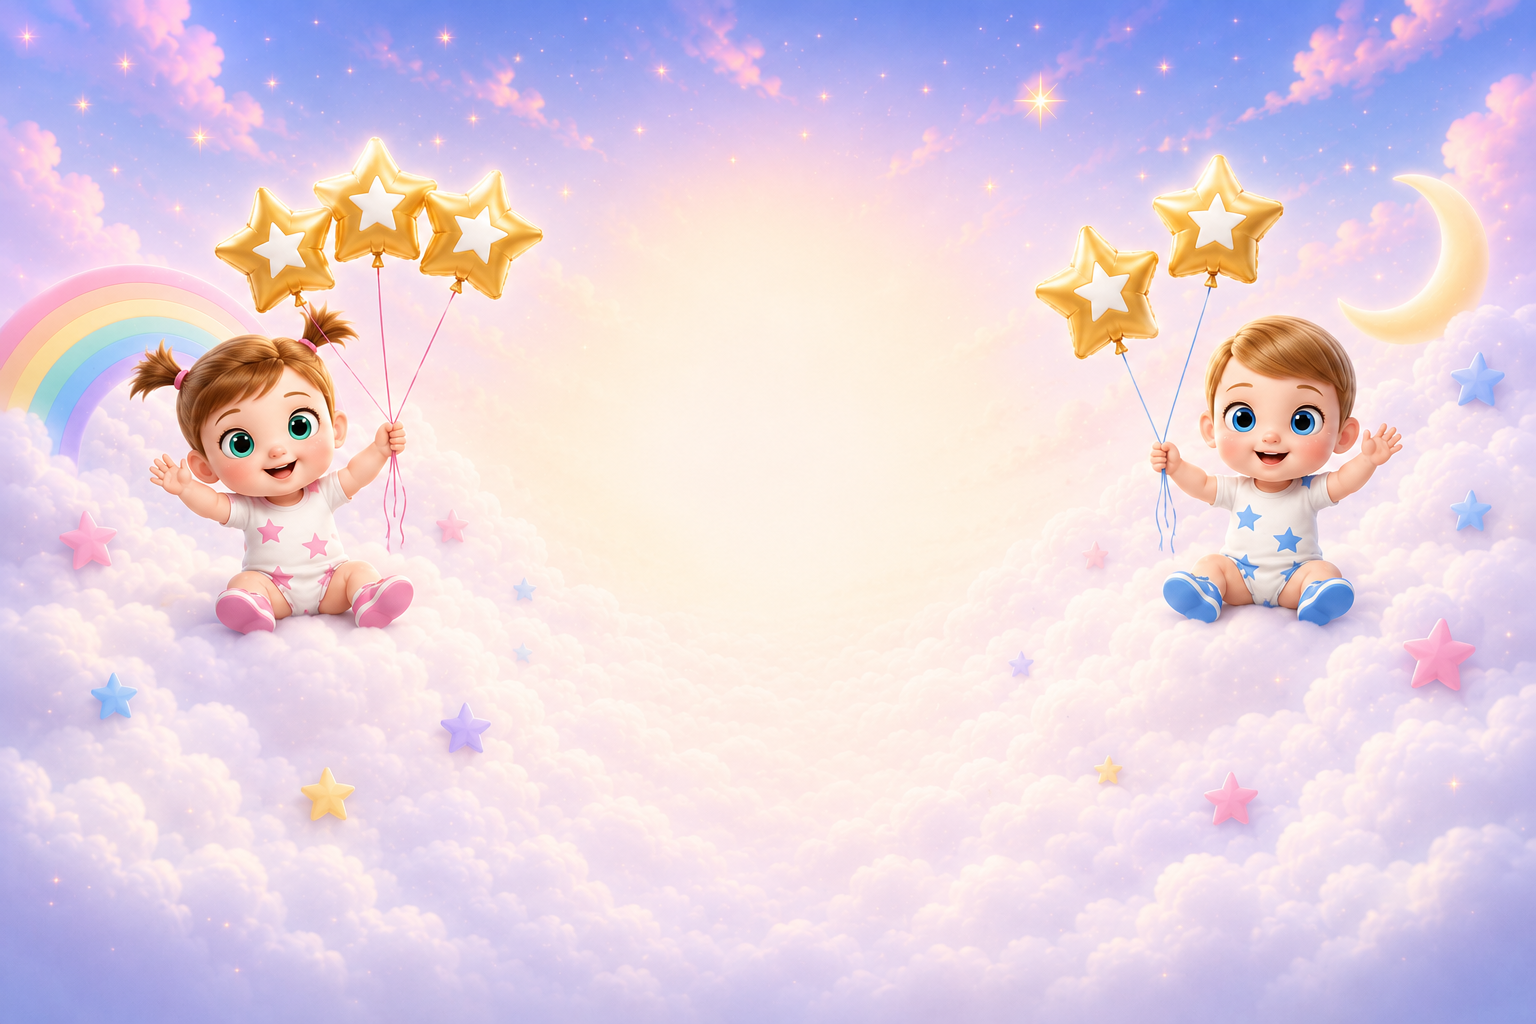
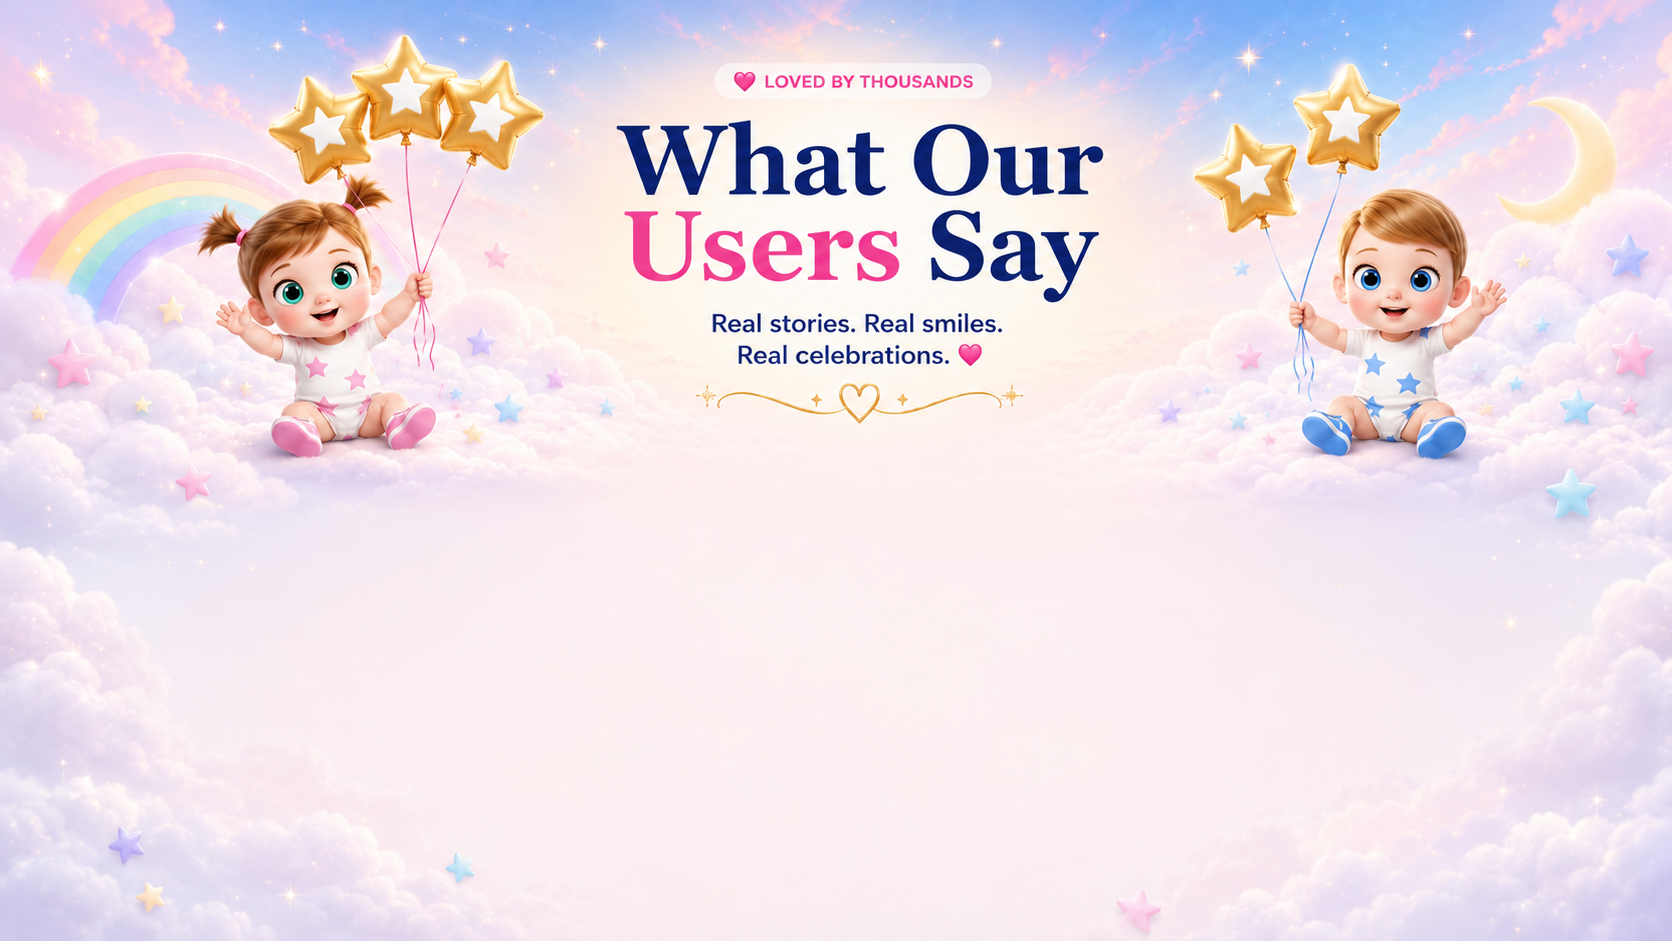
Testimonials: Replace background image with text-rendered image, remove HTML text header container, and restore 33vw top-padding to align cards below text

diff --git a/src/components/cinema/CinematicEntry.tsx b/src/components/cinema/CinematicEntry.tsx
@@ -750,19 +750,6 @@ function LandingPage() {
       </section>
 
       <section className="testi-new-section">
-        <div className="testi-new-header fade-up">
-          <div className="testi-pill-badge">💗 LOVED BY THOUSANDS</div>
-          <h2 className="testi-main-title">What Our <span className="testi-title-pink">Users</span> Say</h2>
-          <p className="testi-new-sub">
-            Real stories. Real smiles.<br />
-            Real celebrations. 💗
-          </p>
-          <svg className="testi-ornament" viewBox="0 0 100 20" fill="none" stroke="#e2b857" strokeWidth="1.5" strokeLinecap="round">
-            <path d="M10 10c15 0 20-5 35-5s5 5 5 5" />
-            <path d="M90 10c-15 0-20-5-35-5s-5 5-5 5" />
-            <path d="M50 7c-2-2-5 0-5 3 0 3 5 5 5 5s5-2 5-5c0-3-3-5-5-3z" />
-          </svg>
-        </div>
         <div className="testi-new-inner">
           <div className="testi-new-grid fade-up">
             {[
@@ -1771,7 +1758,7 @@ nav#main-nav.solid{box-shadow:0 6px 28px rgba(0,0,0,0.14);}
 @media(max-width:768px){.pricing-grid{grid-template-columns:1fr;}.pnew-premium{transform:none;}.pnew-premium:hover{transform:translateY(-6px);}}
 /* ── Testimonials Redesign ── */
 .testi-new-section {
-  padding: 6rem 2rem 5rem 2rem;
+  padding: 33vw 2rem 5rem 2rem;
   background: url('/images/testimonials-bg.png') center top/100% auto no-repeat;
   background-color: #ecdffa;
   position: relative;
@@ -1782,54 +1769,6 @@ nav#main-nav.solid{box-shadow:0 6px 28px rgba(0,0,0,0.14);}
 }
 .testi-heart-left, .testi-heart-right {
   display: none !important;
-}
-.testi-new-header {
-  position: relative;
-  margin-bottom: 0;
-  width: 100%;
-  max-width: 600px;
-  text-align: center;
-  z-index: 4;
-}
-.testi-pill-badge {
-  display: inline-flex;
-  align-items: center;
-  gap: 0.4rem;
-  padding: 0.38rem 1.2rem;
-  border: 1.5px solid #E8449A;
-  border-radius: 50px;
-  font-size: 0.72rem;
-  font-weight: 700;
-  color: #E8449A;
-  letter-spacing: 0.1em;
-  text-transform: uppercase;
-  margin-bottom: 1rem;
-  background: rgba(255, 255, 255, 0.95);
-  box-shadow: 0 2px 8px rgba(232, 68, 154, 0.08);
-}
-.testi-main-title {
-  font-family: 'Nunito', sans-serif;
-  font-size: clamp(2rem, 3.8vw, 2.8rem);
-  font-weight: 900;
-  color: #1b2a4a;
-  line-height: 1.2;
-}
-.testi-title-pink {
-  color: #E8449A;
-}
-.testi-new-sub {
-  font-size: 0.95rem;
-  color: #4b5563;
-  margin-top: 0.6rem;
-  line-height: 1.45;
-  font-weight: 600;
-}
-.testi-ornament {
-  width: 140px;
-  height: 28px;
-  margin: 0.8rem auto 0;
-  display: block;
-  opacity: 0.85;
 }
 .testi-avatar-icon {
   width: 44px;
@@ -1851,7 +1790,6 @@ nav#main-nav.solid{box-shadow:0 6px 28px rgba(0,0,0,0.14);}
   display: grid;
   grid-template-columns: repeat(4, 1fr);
   gap: 1.25rem;
-  margin-top: 14vw;
 }
 @media(max-width:1024px){.testi-new-grid{grid-template-columns:repeat(2, 1fr);}}
 @media(max-width:640px){.testi-new-grid{grid-template-columns:1fr;}}
@@ -2084,20 +2022,9 @@ nav#main-nav.solid{box-shadow:0 6px 28px rgba(0,0,0,0.14);}
     display: none !important;
   }
   .testi-new-section {
-    padding: 4rem 1.2rem 4rem !important;
+    padding: 58vw 1.2rem 4rem !important;
     background: url('/images/testimonials-bg.png') center top/100% auto no-repeat !important;
     background-color: #ecdffa !important;
-  }
-  .testi-new-header {
-    position: relative !important;
-    top: 0 !important;
-    left: 0 !important;
-    transform: none !important;
-    margin-bottom: 0 !important;
-    max-width: 100% !important;
-  }
-  .testi-new-grid {
-    margin-top: 48vw !important;
   }
   .testi-new-card {
     padding: 1.8rem 1.2rem !important;
